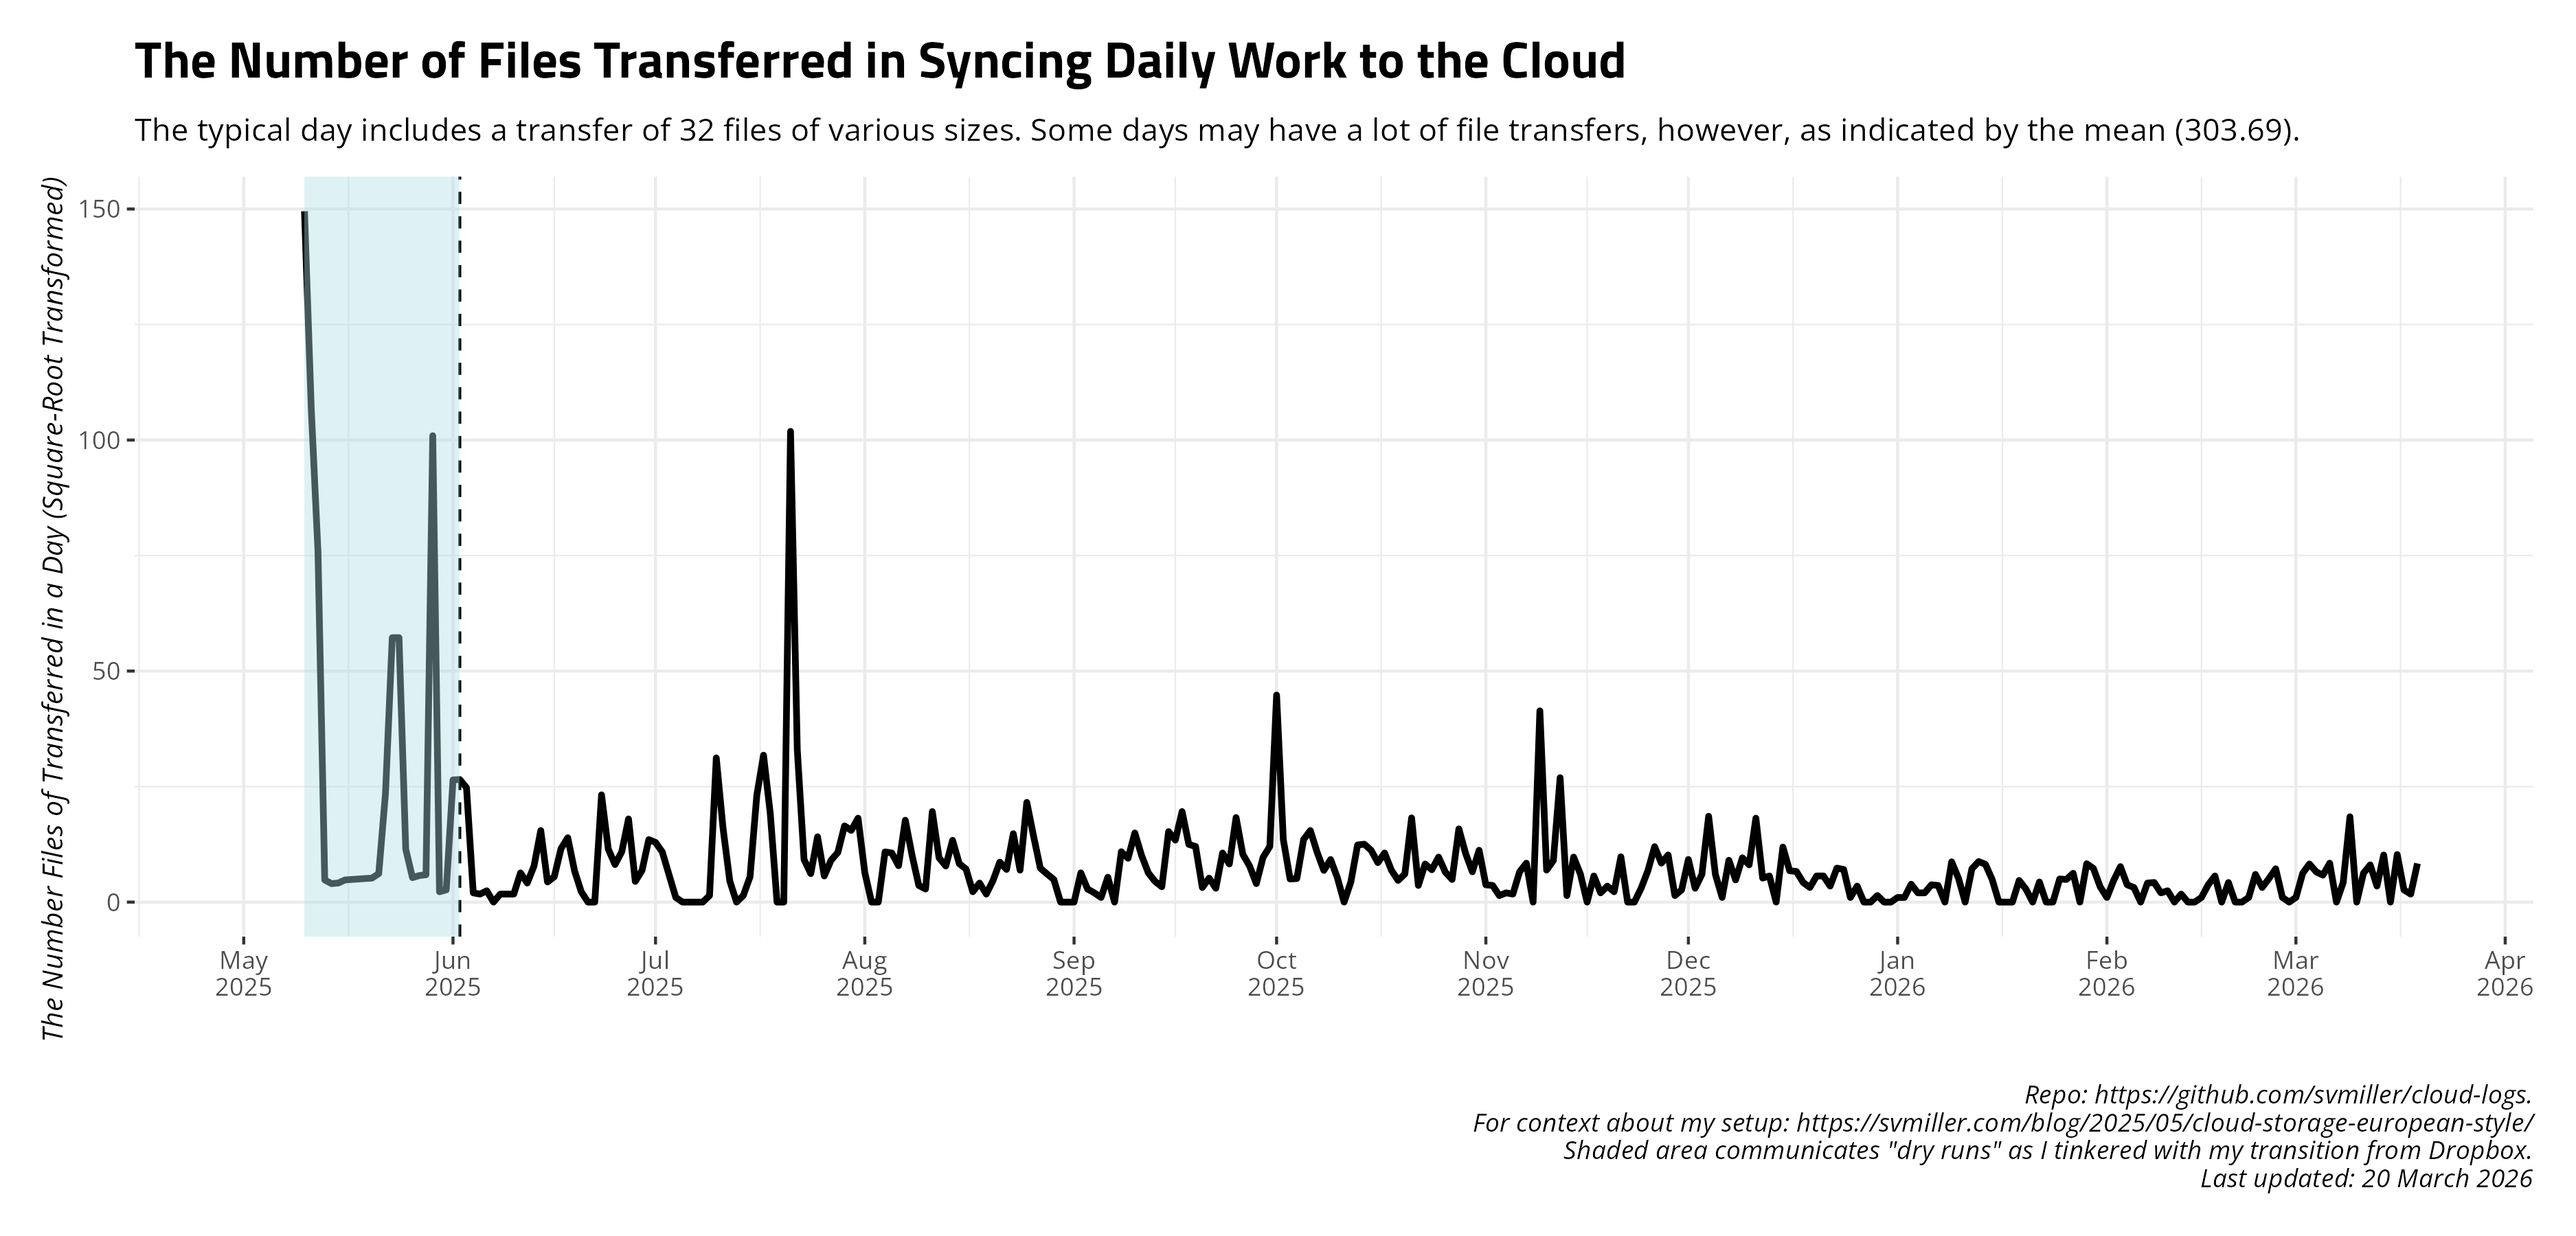
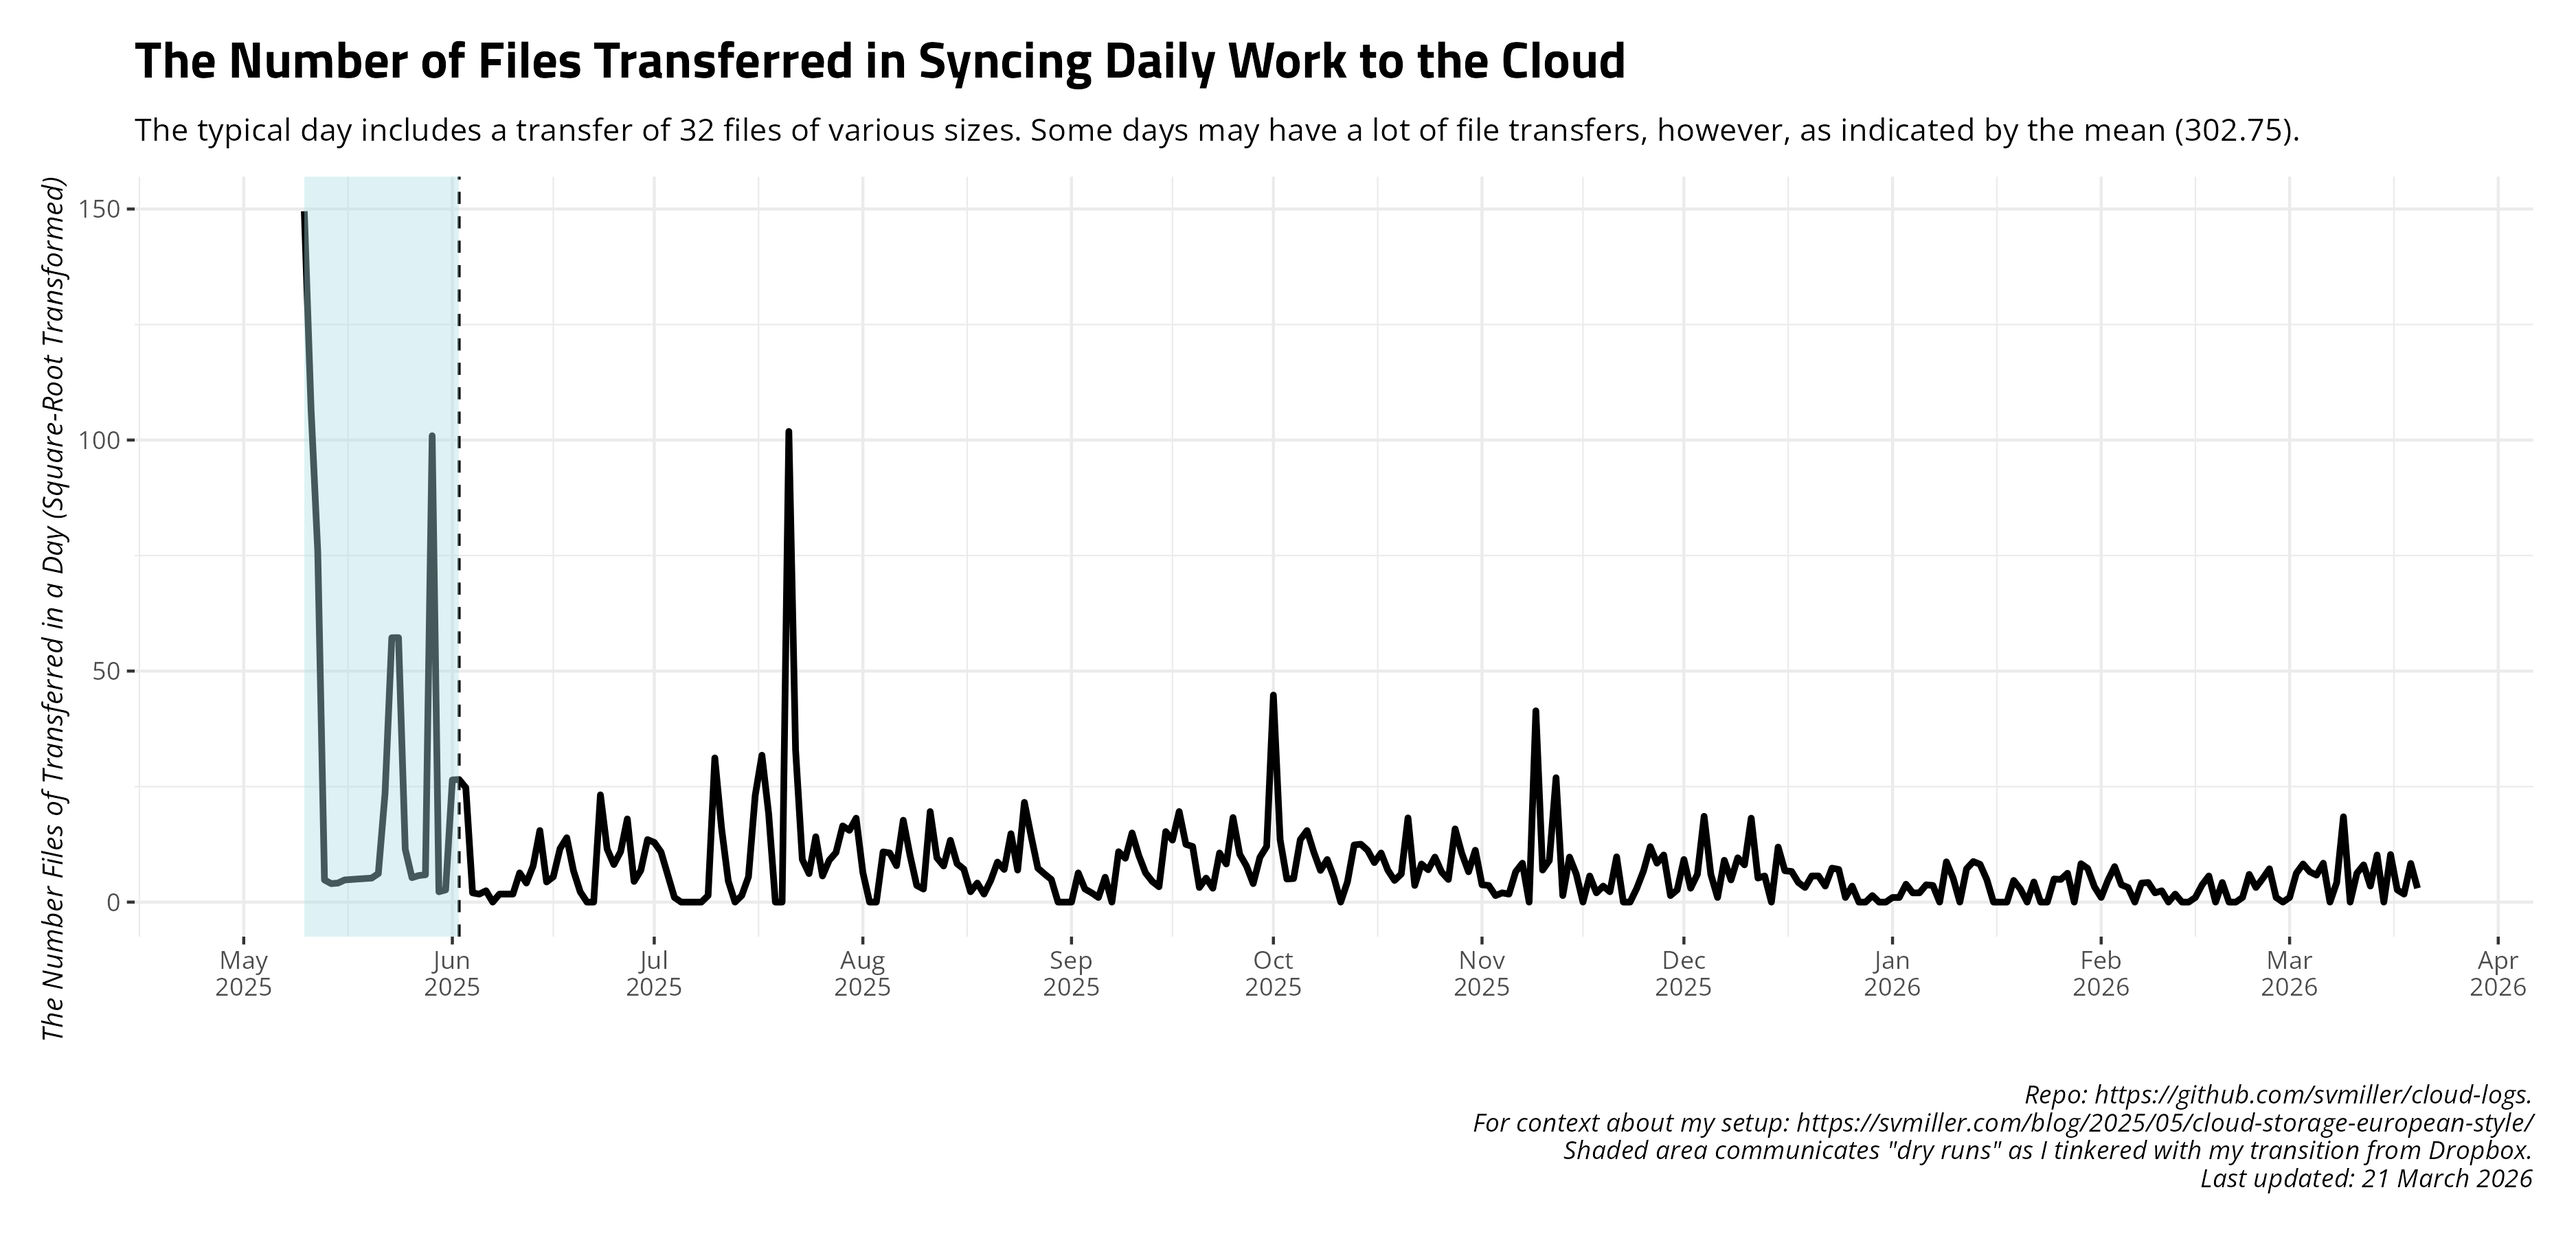
Date: 2026-03-21 09:00:24. Hi mom!

diff --git a/README.md b/README.md
@@ -27,17 +27,17 @@ and uploads to Github.
     #> # A tibble: 14 × 4
     #>    date       ftransfer stransfer   elapsed 
     #>    <date>         <dbl> <chr>       <chr>   
-    #>  1 2026-03-06        71 3.873 MiB   5m24.4s 
-    #>  2 2026-03-07         0 <NA>        5m14.2s 
-    #>  3 2026-03-08        18 146.060 KiB 4m54.1s 
-    #>  4 2026-03-09       341 3.990 MiB   8m23.0s 
-    #>  5 2026-03-10         0 <NA>        5m20.3s 
-    #>  6 2026-03-11        39 64.329 KiB  4m56.5s 
-    #>  7 2026-03-12        65 39.725 KiB  5m20.7s 
-    #>  8 2026-03-13        12 68.007 KiB  5m9.9s  
-    #>  9 2026-03-14       104 683.430 KiB 19m7.9s 
-    #> 10 2026-03-15         0 <NA>        5m19.2s 
-    #> 11 2026-03-16       106 15.047 MiB  14m17.7s
-    #> 12 2026-03-17         7 145.749 KiB 5m26.0s 
-    #> 13 2026-03-18         3 30.764 MiB  5m16.3s 
-    #> 14 2026-03-19        70 1.489 MiB   5m3.4s
+    #>  1 2026-03-07         0 <NA>        5m14.2s 
+    #>  2 2026-03-08        18 146.060 KiB 4m54.1s 
+    #>  3 2026-03-09       341 3.990 MiB   8m23.0s 
+    #>  4 2026-03-10         0 <NA>        5m20.3s 
+    #>  5 2026-03-11        39 64.329 KiB  4m56.5s 
+    #>  6 2026-03-12        65 39.725 KiB  5m20.7s 
+    #>  7 2026-03-13        12 68.007 KiB  5m9.9s  
+    #>  8 2026-03-14       104 683.430 KiB 19m7.9s 
+    #>  9 2026-03-15         0 <NA>        5m19.2s 
+    #> 10 2026-03-16       106 15.047 MiB  14m17.7s
+    #> 11 2026-03-17         7 145.749 KiB 5m26.0s 
+    #> 12 2026-03-18         3 30.764 MiB  5m16.3s 
+    #> 13 2026-03-19        70 1.489 MiB   5m3.4s  
+    #> 14 2026-03-20         9 298.045 KiB 5m9.9s
